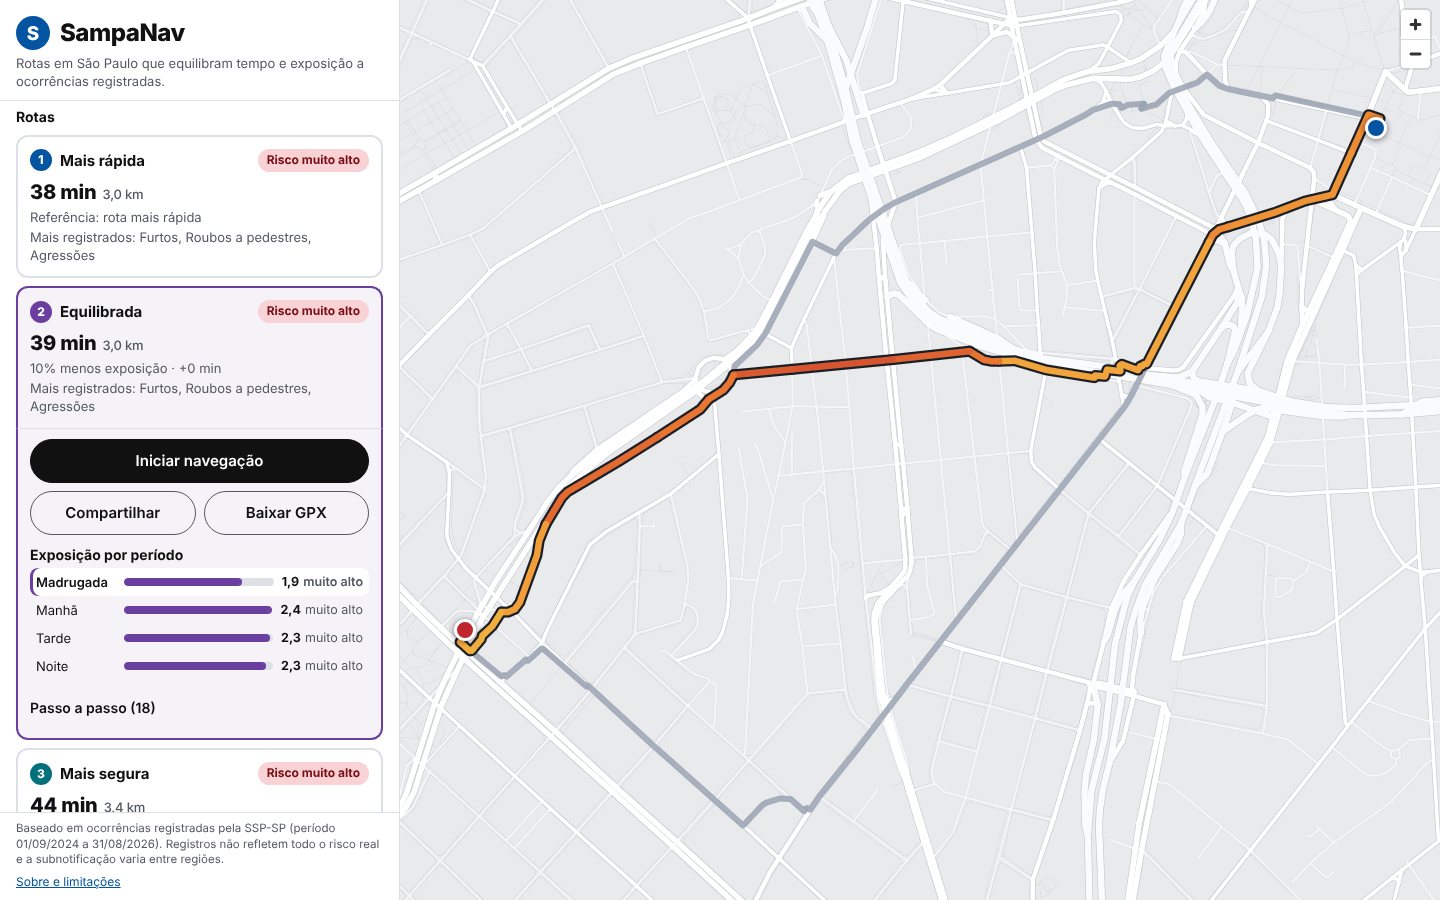
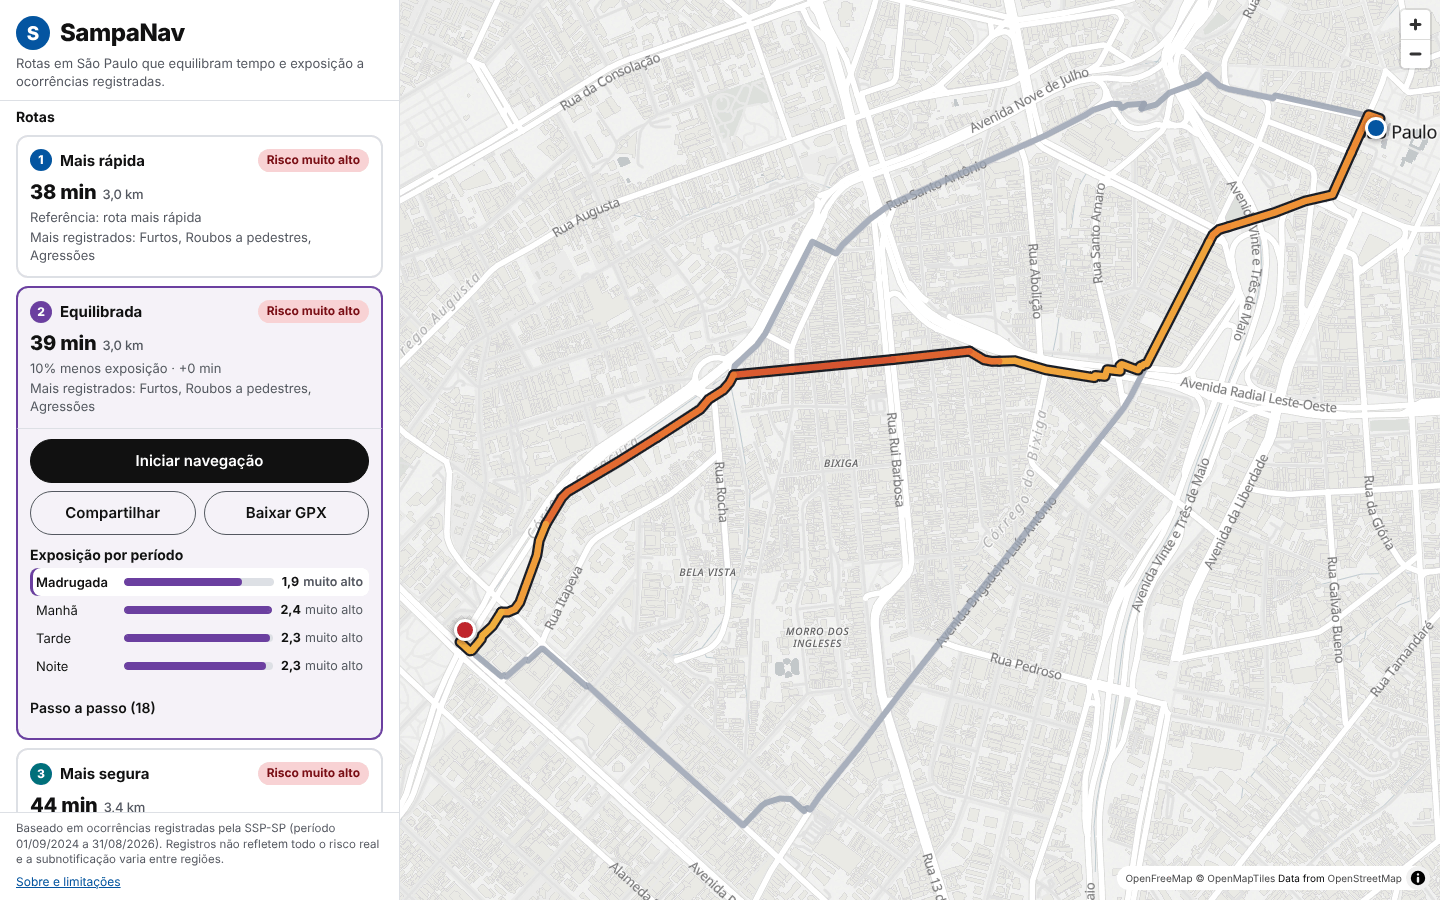
Capturas com o mapa real, guia e CHANGELOG 1.4.1
Claude-Session: https://claude.ai/code/session_01BHZqptHELPww5vct92W8gZ

diff --git a/backend/app/main.py b/backend/app/main.py
@@ -186,7 +186,7 @@ def create_app(
         yield
         await geo.close()
 
-    app = FastAPI(title="SampaNav", version="1.4.0", lifespan=lifespan)
+    app = FastAPI(title="SampaNav", version="1.4.1", lifespan=lifespan)
     app.state.limiter = RateLimiter(load_rates(rate_limits))
 
     @app.exception_handler(RequestValidationError)

diff --git a/docs/GUIA-POS-DEPLOY.md b/docs/GUIA-POS-DEPLOY.md
@@ -86,28 +86,25 @@ mas só se a validação passar.
    workflow**. Se a validação reprovar, o resumo da execução diz por quê, e nenhuma
    Release é publicada.
 
-## 5. Conferir o limite de requisições por IP
+## 5. Limite de requisições por IP (resolvido)
 
-A API limita requisições por IP, e o IP vem do primeiro valor do cabeçalho
-`X-Forwarded-For`. Falta confirmar como o proxy do Render preenche esse cabeçalho, porque
-um cliente pode tentar forjá-lo. Teste com 25 requisições, cada uma com um IP inventado
-diferente:
+Testado em produção em 29/10/2026: com `X-Forwarded-For` forjado e diferente a cada
+requisição, as 25 chamadas a `/api/routes` passavam (o limite era contornado). O Render
+fica atrás do Cloudflare, então a API passou a usar `CF-Connecting-IP`, que o Cloudflare
+sobrescreve com o IP real. Sem esse cabeçalho, usa a última entrada do `X-Forwarded-For`
+(a anexada pelo proxy). Se a API mudar de host, ajuste `SAMPANAV_CLIENT_IP_HEADER`.
+
+Para conferir de novo depois de um deploy, rode o laço abaixo. Mesmo com IPs inventados,
+deve aparecer `429` depois de umas 20 respostas `200`:
 
 ```bash
-API=https://<sua-api>.onrender.com
+API=https://sampanav-api.onrender.com
 for i in $(seq 1 25); do
   curl -s -o /dev/null -w "%{http_code} " -X POST "$API/api/routes" \
     -H 'Content-Type: application/json' -H "X-Forwarded-For: 10.0.0.$i" \
     -d '{"origin":{"lat":-23.5503,"lon":-46.6339},"destination":{"lat":-23.5614,"lon":-46.6559},"mode":"walk"}'
 done; echo
 ```
-
-- **Aparece `429` depois de umas 20 respostas `200`**: o Render sobrescreve o cabeçalho e
-  o limite funciona. Nada a fazer.
-- **Só aparece `200`**: o IP inventado está sendo aceito e o limite pode ser contornado.
-  Nesse caso, peça para ajustar `client_ip` em `backend/app/ratelimit.py` para usar a
-  entrada adicionada pelo proxy (a última da lista, ou a penúltima se houver dois
-  proxies), e repita o teste.
 
 ## 6. Cold start do plano free (opcional)
 
@@ -133,8 +130,6 @@ app já mostra o aviso e abre a interface na hora (PWA). Se quiser evitar a espe
       ainda diz "verificar termos de uso".
 - [ ] Teste a instalação como app no celular: no Chrome (Android), "Instalar app"; no
       Safari (iOS), "Compartilhar → Adicionar à Tela de Início".
-- [ ] Se quiser, regere as capturas do README com os tiles reais, num computador com
-      internet: `BASEMAP=real tools/screenshots/run.sh <pasta_dos_dados>`.
 
 ## 8. Domínio próprio (opcional)
 

diff --git a/CHANGELOG.md b/CHANGELOG.md
@@ -5,6 +5,18 @@ Todas as mudanças notáveis deste projeto são documentadas aqui.
 O formato segue o [Keep a Changelog](https://keepachangelog.com/pt-BR/1.1.0/),
 e o projeto usa [Versionamento Semântico](https://semver.org/lang/pt-BR/).
 
+## [1.4.1] - 2026-10-29
+
+### Corrigido
+
+- Limite de requisições por IP podia ser contornado com `X-Forwarded-For` forjado
+  (confirmado em produção). A API usa `CF-Connecting-IP` (Cloudflare, na frente do
+  Render) e, sem ele, a última entrada do `X-Forwarded-For`.
+
+### Alterado
+
+- Capturas do README regeradas sobre o mapa real do OpenFreeMap.
+
 ## [1.4.0] - 2026-10-29
 
 ### Alterado

diff --git a/README.md b/README.md
@@ -56,8 +56,7 @@ pelo risco, e a camada de calor mostra o risco por região em cada período do d
 </table>
 
 <sub>Capturas geradas com o backend real e os dados de setembro/2024 a agosto/2026
-(660 mil ocorrências). O mapa base das imagens é desenhado a partir das ruas do próprio
-grafo, então é mais simples que os tiles do OpenFreeMap usados no app. Para regerar:
+(660 mil ocorrências), sobre o mapa do OpenFreeMap usado no app. Para regerar:
 [`tools/screenshots`](tools/screenshots/README.md).</sub>
 
 ## Identidade visual
